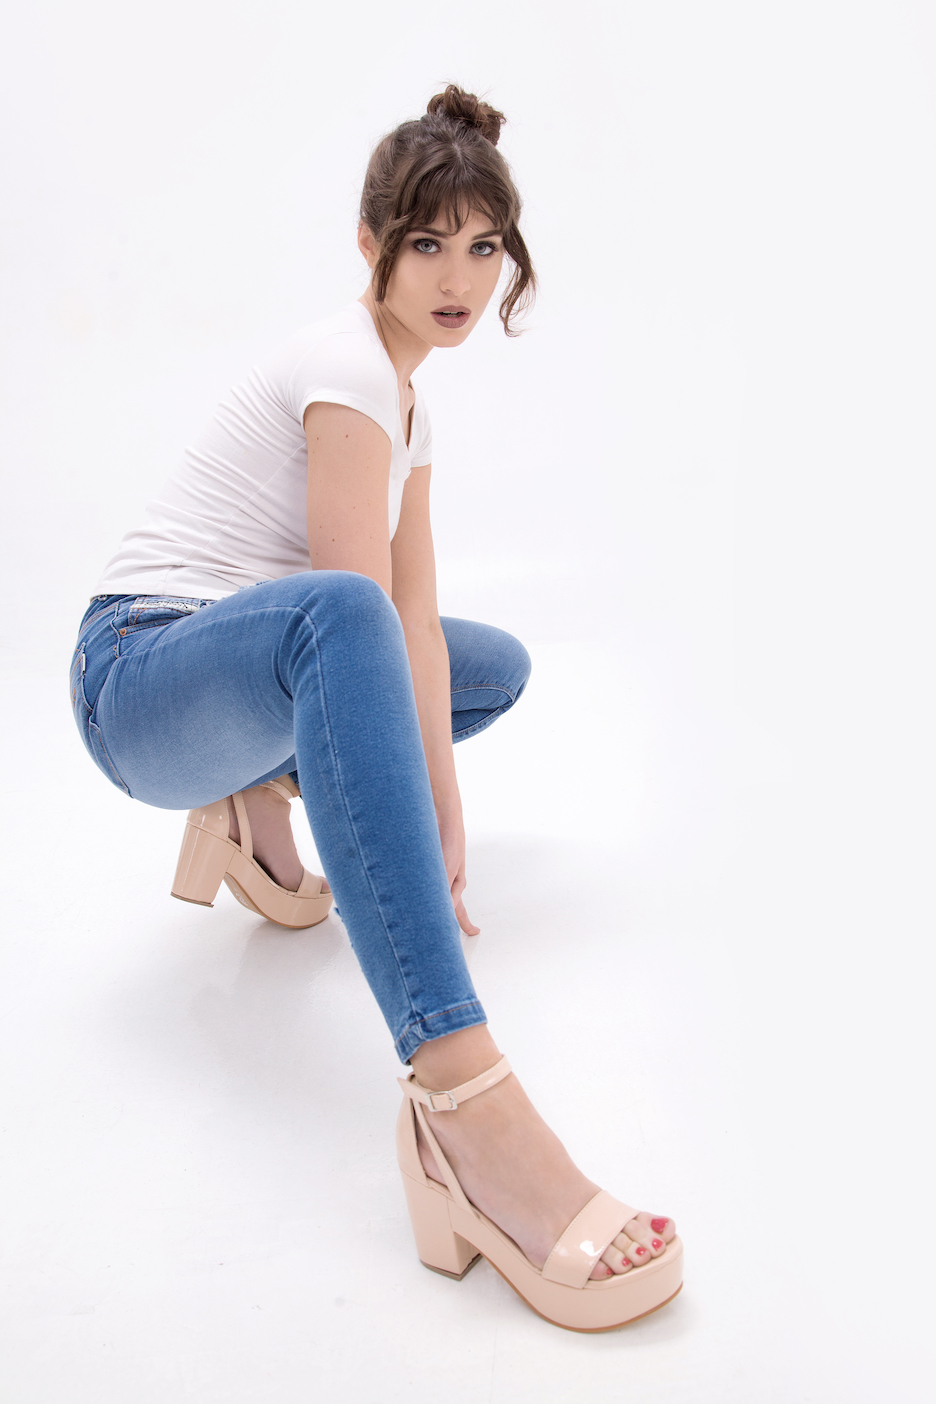
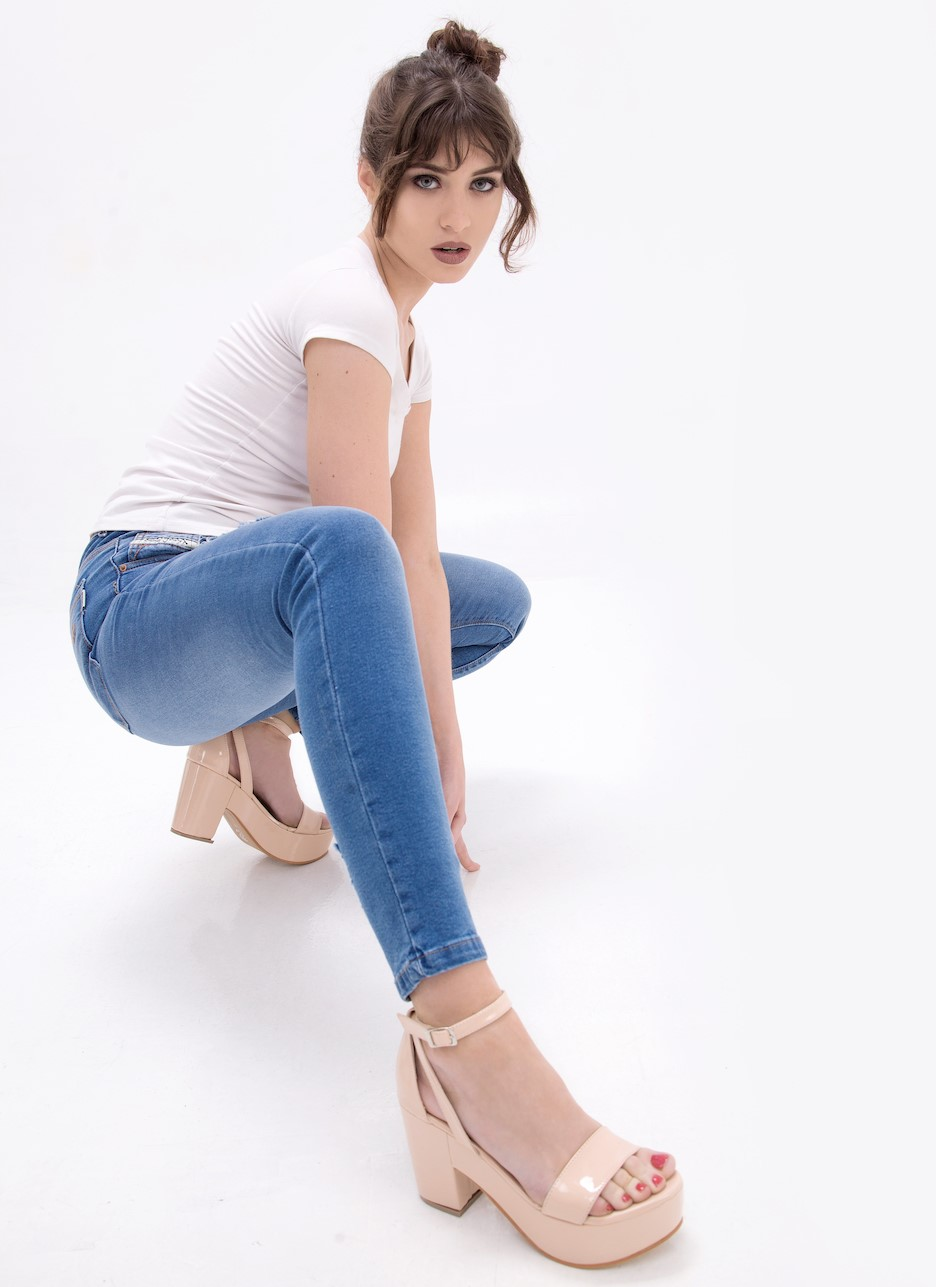
creación páginas login y register, edición imagenes modelo 1 y 2

Changed region(s): [[0.062, 0.0, 0.5887, 0.5284], [0.1239, 0.5594, 0.7436, 0.9946], [0.4647, 0.404, 0.5887, 0.5284]]

diff --git a/views/register.html b/views/register.html
@@ -42,30 +42,35 @@
                 </div>
 
             </nav>
-            <img src="/img/img_home_1.jpg" alt="img_header">
+
 
         </header>
         
-        <section class="banner">
-            
-            <div class="banner-box">
-                <p><i class="far fa-credit-card"></i> 3, 6 y 12 cuotas sin interés!</p>
-            </div>
-            <div class="banner-box">
-                <p><i class="fas fa-plane"></i> Envíos a todo el país gratis a partir de $3000</p>
-            </div>
-            <div class="banner-box">
-                <p><i class="fas fa-money-bill-wave"></i> 10% descuento pagando con débito o transferencia</p>
-            </div>
-            <div class="banner-box">
-                <p><i class="fab fa-whatsapp"></i> Tenés dudas? Contactanos y te asesoramos</p>
-            </div>
+    
+        <main class="registermain">
 
-        </section>
-        
-        <main>
-
+           <img src="img/img_model_1.jpg" alt="imagen de una modelo" class="registerimage">
+    
+            <section class= "formulariologin">
+                <h1>Ingresar con mail y contraseña</h1>
+    
+                <form action="/" method="GET">
+                    <p><label for="nombre">Nombre</label></p>
+                    <p><input type="text" name="nombre" id="nombre"></p>
+                    <p><label for="email">Email:</label></p>
+                    <p><input type="email" name="email" id="email" placeholder="Ej: maria@babieka.com"></p>
+                    <p><label for="password">Contraseña:</label></p>
+                    <p><input type="password" name="password" id="password"></p>
+                    <p><label for="repeatpassword">Repita su contraseña:</label></p>
+                    <p><input type="password" name="repeatpassword" id="repeatpassword"></p>
+    
+                    <button type="submit">Crear cuenta</button>
+                </form>
+    
+            </section>
+    
         </main>
+        
         
         <footer>
             

diff --git a/views/login.html b/views/login.html
@@ -42,29 +42,33 @@
                 </div>
 
             </nav>
-            <img src="/img/img_home_1.jpg" alt="img_header">
+           
 
         </header>
         
-        <section class="banner">
-            
-            <div class="banner-box">
-                <p><i class="far fa-credit-card"></i> 3, 6 y 12 cuotas sin interés!</p>
-            </div>
-            <div class="banner-box">
-                <p><i class="fas fa-plane"></i> Envíos a todo el país gratis a partir de $3000</p>
-            </div>
-            <div class="banner-box">
-                <p><i class="fas fa-money-bill-wave"></i> 10% descuento pagando con débito o transferencia</p>
-            </div>
-            <div class="banner-box">
-                <p><i class="fab fa-whatsapp"></i> Tenés dudas? Contactanos y te asesoramos</p>
-            </div>
-
-        </section>
         
-        <main>
+        <main class="loginmain">
+           
+            <img src="img/img_model_2.jpg" alt="imagen de una modelo" class="loginImage">
 
+            <section class= "formulariologin">
+                <h1>Ingresar con mail y contraseña</h1>
+
+                <form action="/" method="GET">
+                    <p><label for="email">Mail:</label></p>
+                    <p><input type="email" name="email" id="email" placeholder="Ej: maria@babieka.com"></p>
+                    <p><label for="password">Contraseña:</label></p>
+                    <p><input type="password" name="password" id="password"></p>
+
+                    <div class="forgotPass">
+                        <a href="">¿Olvidaste tu contraseña?</a>
+                    </div>
+
+                    <button type="submit">Ingresar</button>
+                </form>
+
+            </section>
+            
         </main>
         
         <footer>

diff --git a/public/css/style.css b/public/css/style.css
@@ -45,6 +45,7 @@
     .footer-box-1 {
         display: flex;
         flex-direction: column;
+        align-items: center;
     }
     .footer-box-2 {
         display: flex;
@@ -108,6 +109,7 @@
         display: flex;
         justify-content: space-between;
         align-items: center;
+
     }
 
     header img {
@@ -257,6 +259,42 @@
 */
 /*----------// CLASS //----------*/
 
+.formulariologin {
+    
+    padding: 10px;
+    margin: auto;
+    border: 2px solid #FA1E1E;
+    width: max-content;
+    display: flex;
+    flex-direction: column;
+   
+}
+
+.loginmain {
+    background-color: #fafafa;
+}
+
+.loginImage {
+    width: 38%;
+}
+
+.forgotPass {
+    font-family: 'Roboto', sans-serif;
+    font-size: 12px;
+    padding-bottom: 15px;
+}
+
+
+
+.registermain {
+    background-color: #f7f6fa;
+}
+
+.registerimage {
+    width: 33%;
+}
+
+
 
 
 /*----------// ID //----------*/
@@ -264,6 +302,17 @@
 
 
 /*----------// TAG //----------*/
+button{
+    background-color: #FA1E1E;
+    color: #e0e0e0;
+    border-color: #e0e0e0;
+    border-radius: 5px;
+    border-style: hidden;
+    padding: 8px;
+    font-family: 'Roboto', sans-serif;
+}
+
+
 /* GLOBAL */
 
 
@@ -274,6 +323,17 @@
 
 /*----------// MEDIA QUERIES //----------*/
 
+@media(max-width:767px) {
+    .loginImage {
+        display: none;
+    }
+}
+
+@media(max-width:767px) {
+    .registerimage {
+        display: none;
+    }
+}
 
 
 /*______________________________________________________________*/
